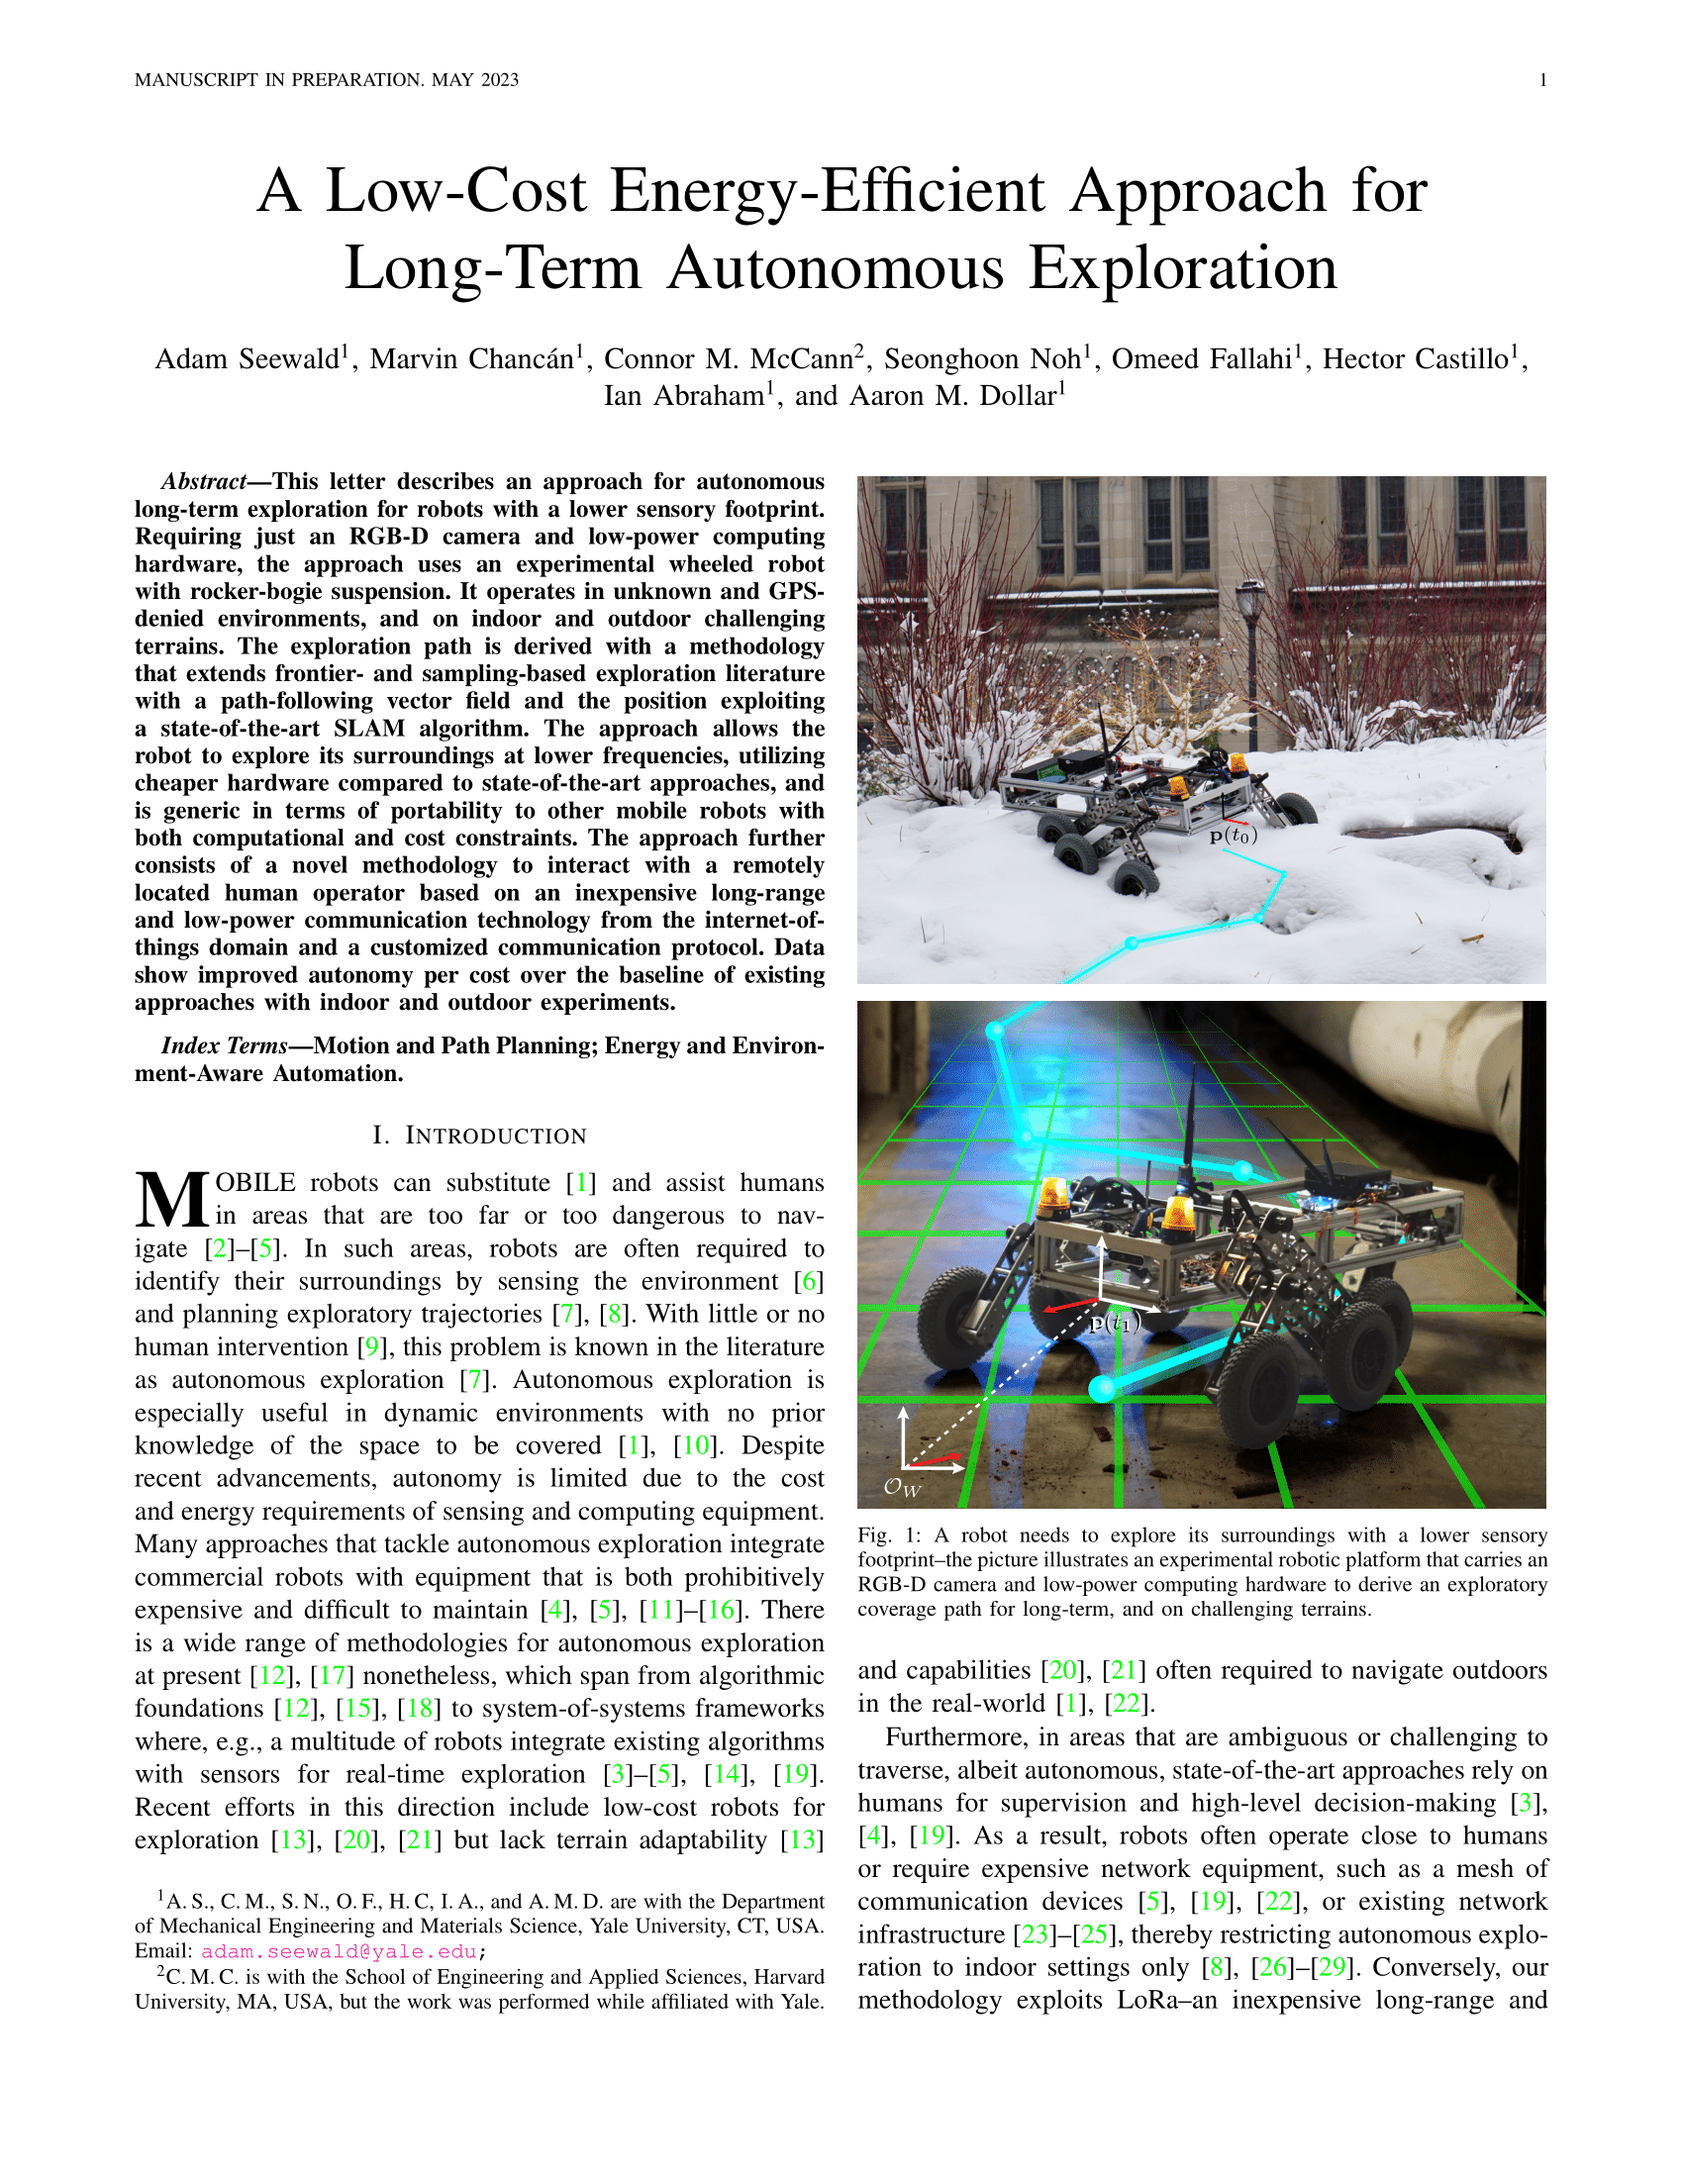
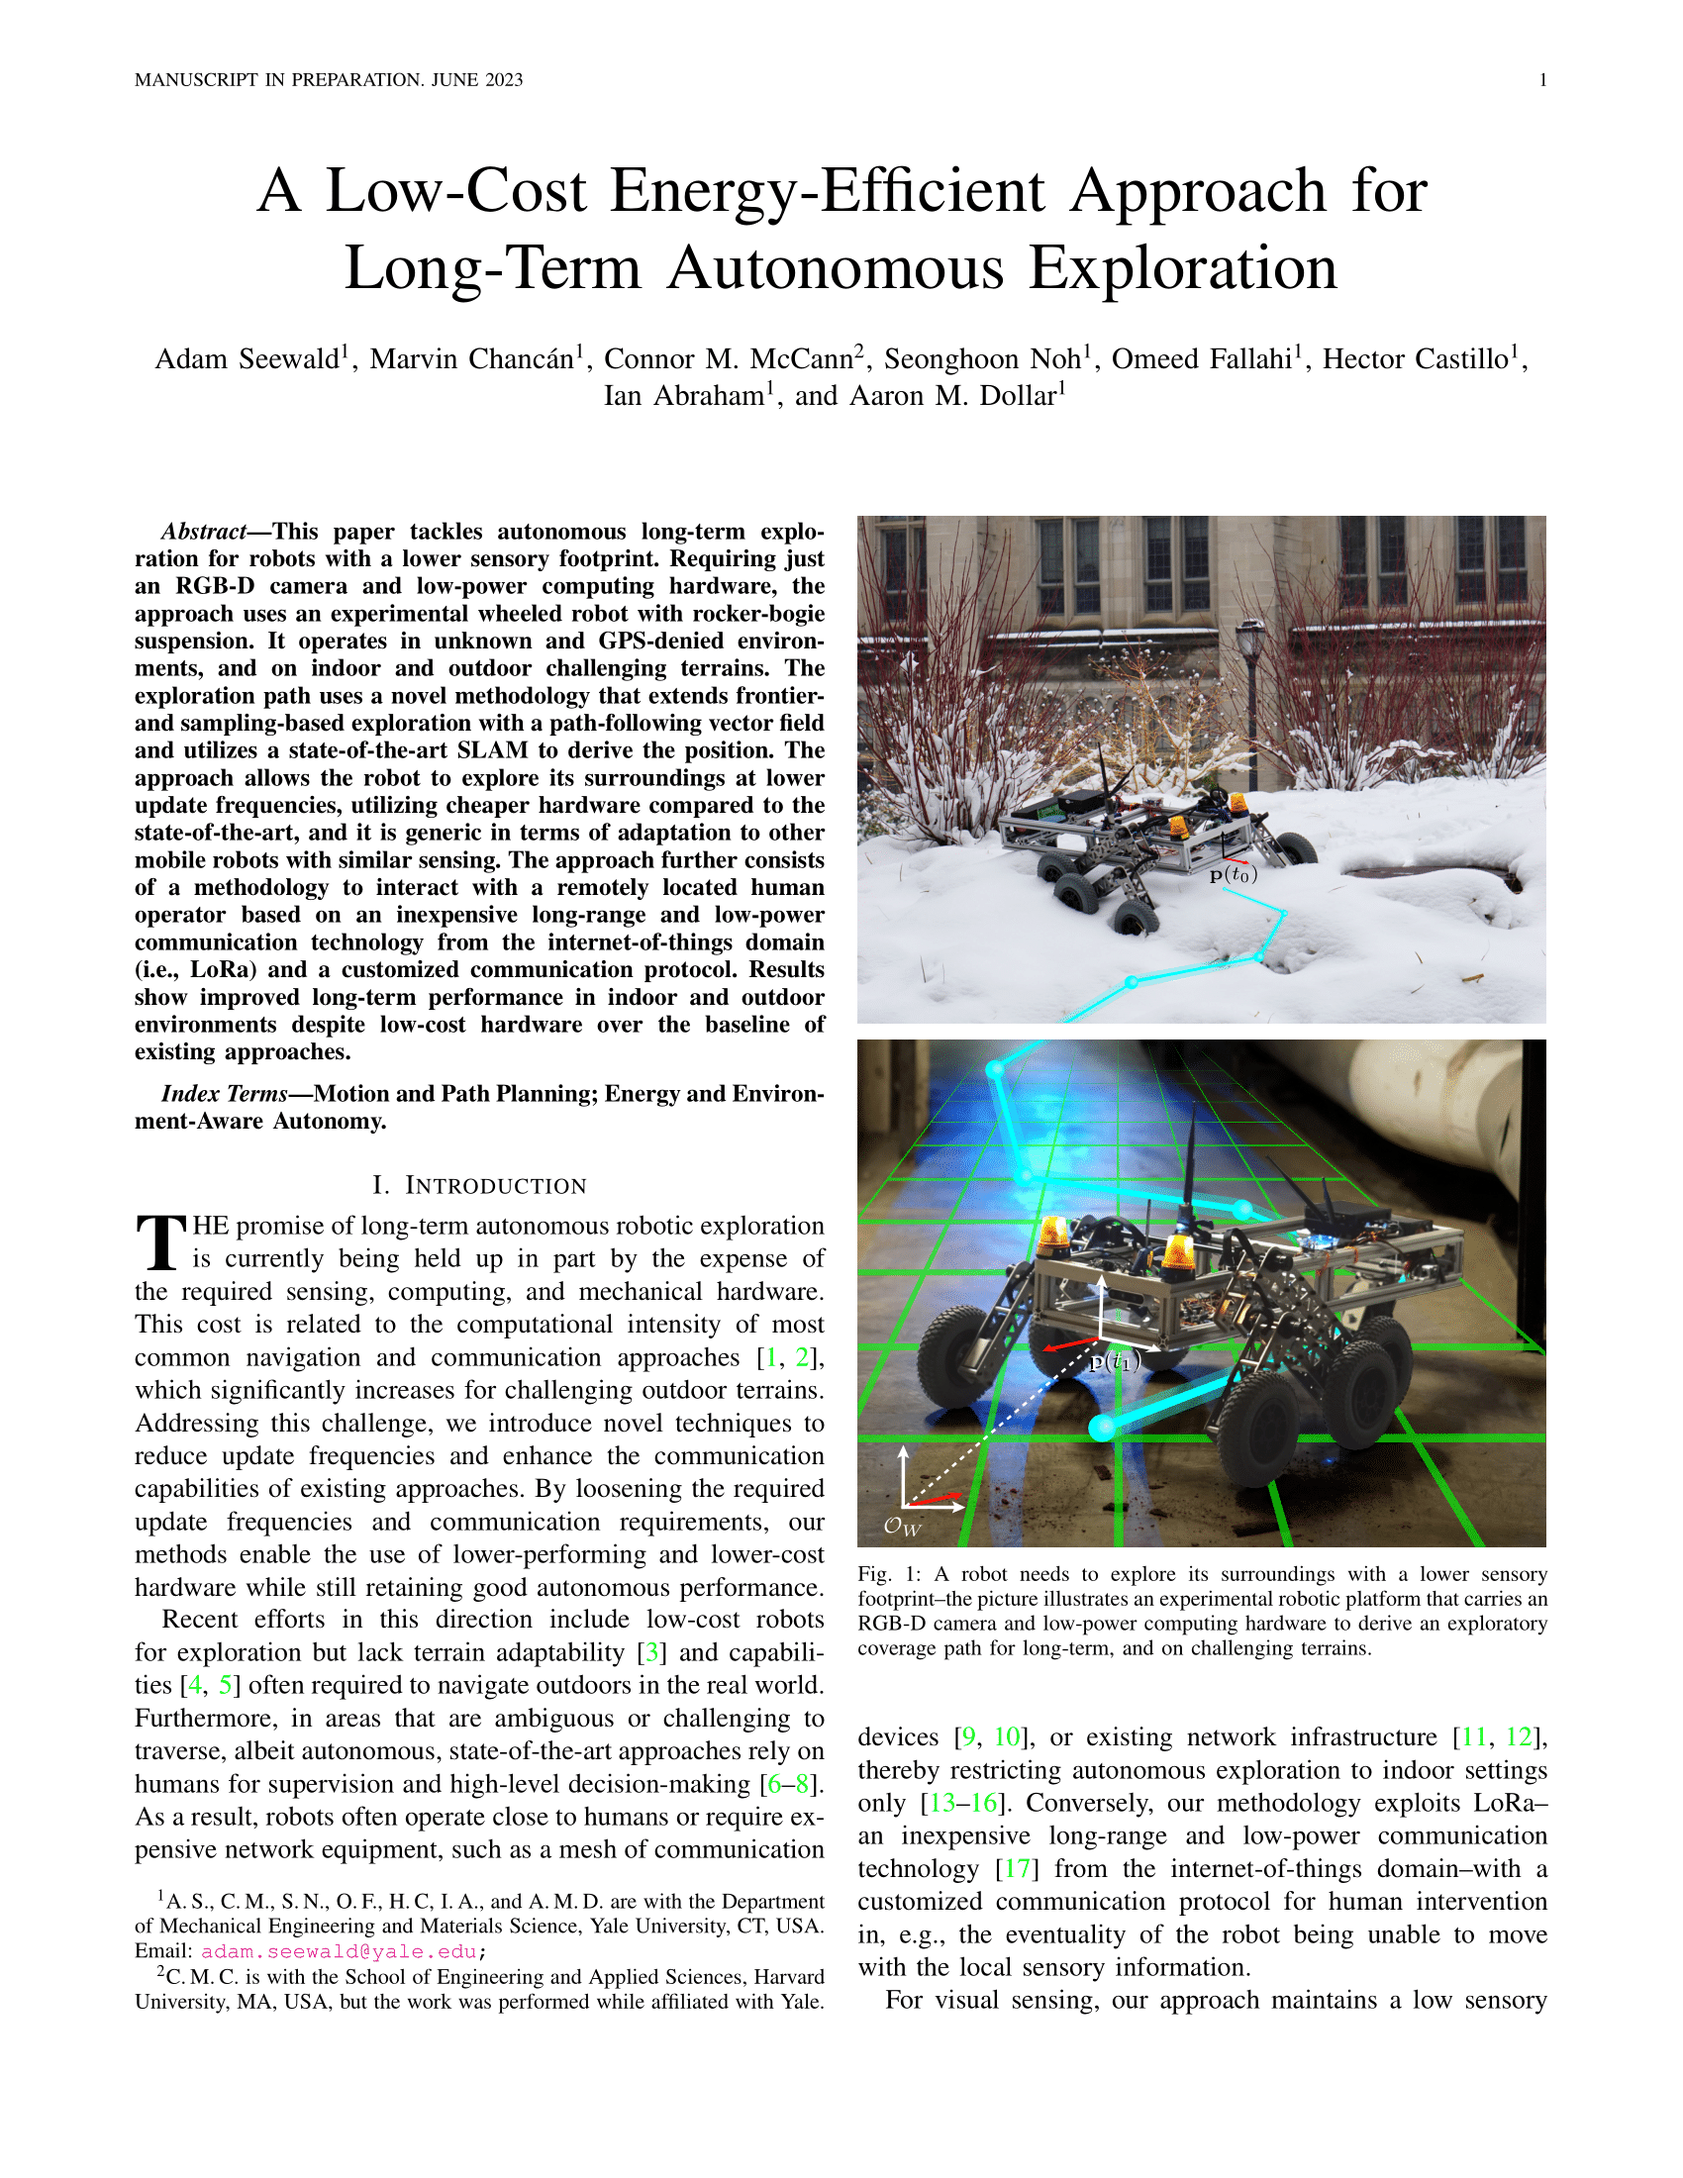
updated rb5 paper

Changed region(s): [[0.0624, 0.2164, 0.9353, 0.9273], [0.2494, 0.0309, 0.3118, 0.0618]]

diff --git a/publications/index.html b/publications/index.html
@@ -39,7 +39,7 @@
             </div>
             <div>
                 <a class="source" href="a-low-cost-energy-efficient-approach-for-long-term-autonomous-exploration/preprint/">
-                    <b class="journal">A low-cost energy-efficient approach for long-term autonomous exploration</b><span class="grayisch">, 2023, in prepatation, p. 8.</span>
+                    <b class="journal">A low-cost energy-efficient approach for long-term autonomous exploration</b><span class="grayisch">, 2023, in prepatation, p. 7.</span>
                 </a>
             </div>
             <div class="details-entry">
